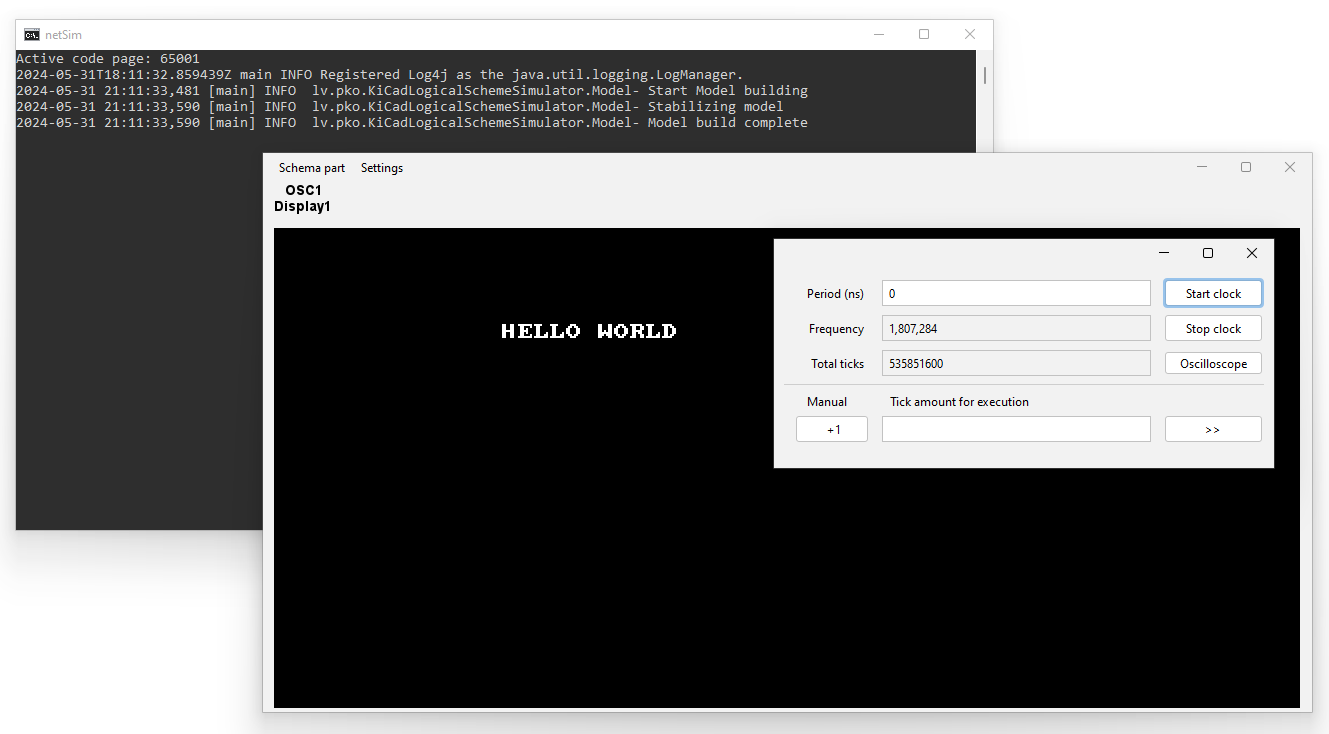
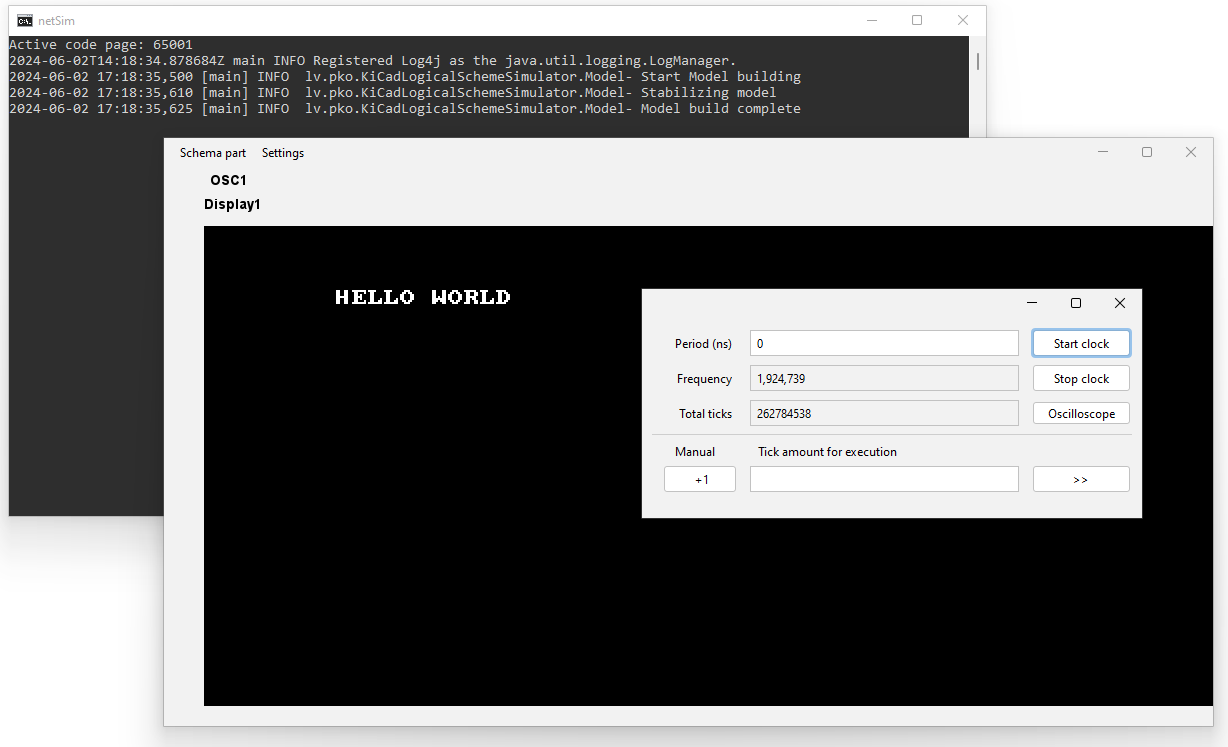
speed / actualise Readme

Changed region(s): [[0.0, 0.0, 0.9902, 0.9891]]

diff --git a/schemaParts/shifter/src/java/lv/pko/KiCadLogicalSchemeSimulator/components/shifter/Shifter.java b/schemaParts/shifter/src/java/lv/pko/KiCadLogicalSchemeSimulator/components/shifter/Shifter.java
@@ -37,6 +37,8 @@ import lv.pko.KiCadLogicalSchemeSimulator.api.pins.in.RisingEdgeInPin;
 import lv.pko.KiCadLogicalSchemeSimulator.api.pins.out.OutPin;
 import lv.pko.KiCadLogicalSchemeSimulator.api.schemaPart.SchemaPart;
 
+import java.util.stream.IntStream;
+
 public class Shifter extends SchemaPart {
     private final InPin dPins;
     private final InPin dsPins;
@@ -53,6 +55,10 @@ public class Shifter extends SchemaPart {
             throw new RuntimeException("Component " + id + " has no parameter \"size\"");
         }
         int dSize = Integer.parseInt(params.get("size"));
+        int qSize = dSize;
+        if (params.containsKey("qSize")) {
+            qSize = Integer.parseInt(params.get("qSize"));
+        }
         dPins = addInPin(new InPin("D", this, dSize) {
             @Override
             public void onChange(long newState, boolean hiImpedance) {
@@ -76,7 +82,7 @@ public class Shifter extends SchemaPart {
                 plInactive = (newState == 0) ^ plReverse;
                 if (!plInactive) {
                     latch = dPins.getState();
-                    out.setState(latch);
+                    out.setState(latch & out.mask);
                 }
             }
         });
@@ -90,7 +96,7 @@ public class Shifter extends SchemaPart {
                             if (dsPins.state > 0) {
                                 latch = latch | 1;
                             }
-                            out.setState(latch);
+                            out.setState(latch & out.mask);
                         }
                     }
                 }
@@ -104,7 +110,7 @@ public class Shifter extends SchemaPart {
                             if (dsPins.state > 0) {
                                 latch = latch | hiDsMask;
                             }
-                            out.setState(latch);
+                            out.setState(latch & out.mask);
                         }
                     }
                 }
@@ -119,7 +125,7 @@ public class Shifter extends SchemaPart {
                             if (dsPins.state > 0) {
                                 latch = latch | 1;
                             }
-                            out.setState(latch);
+                            out.setState(latch & out.mask);
                         }
                     }
                 }
@@ -133,13 +139,16 @@ public class Shifter extends SchemaPart {
                             if (dsPins.state > 0) {
                                 latch = latch | hiDsMask;
                             }
-                            out.setState(latch);
+                            out.setState(latch & out.mask);
                         }
                     }
                 }
             });
         }
-        addOutPin("Q", dSize);
+        addOutPin("Q",
+                qSize,
+                IntStream.range(0, qSize).mapToObj(String::valueOf)
+                        .map(pos -> "Q" + pos).toArray(String[]::new));
     }
 
     @Override

diff --git a/simulator/src/java/lv/pko/KiCadLogicalSchemeSimulator/api/pins/out/DirectOutPin.java b/simulator/src/java/lv/pko/KiCadLogicalSchemeSimulator/api/pins/out/DirectOutPin.java
@@ -29,43 +29,33 @@
  * ARISING IN ANY WAY OUT OF THE USE OF THIS SOFTWARE, EVEN IF ADVISED OF THE
  * POSSIBILITY OF SUCH DAMAGE.
  */
-package lv.pko.KiCadLogicalSchemeSimulator.components.repeater;
-import lv.pko.KiCadLogicalSchemeSimulator.api.pins.in.FloatingPinException;
-import lv.pko.KiCadLogicalSchemeSimulator.api.pins.in.InPin;
-import lv.pko.KiCadLogicalSchemeSimulator.api.pins.out.OutPin;
-import lv.pko.KiCadLogicalSchemeSimulator.api.schemaPart.SchemaPart;
+package lv.pko.KiCadLogicalSchemeSimulator.api.pins.out;
+import lv.pko.KiCadLogicalSchemeSimulator.api.pins.Manipulable;
 
-public class Repeater extends SchemaPart {
-    private OutPin out;
-
-    public Repeater(String id, String sParam) {
-        super(id, sParam);
-        if (reverse) {
-            addInPin(new InPin("IN", this) {
-                @Override
-                public void onChange(long newState, boolean hiImpedance) {
-                    if (hiImpedance) {
-                        throw new FloatingPinException(this);
-                    }
-                    out.setState(~newState & out.mask);
-                }
-            });
-        } else {
-            addInPin(new InPin("IN", this) {
-                @Override
-                public void onChange(long newState, boolean hiImpedance) {
-                    if (hiImpedance) {
-                        throw new FloatingPinException(this);
-                    }
-                    out.setState(newState);
-                }
-            });
-        }
-        addOutPin("OUT", 1);
+public class DirectOutPin extends OutPin implements Manipulable {
+    public DirectOutPin(OutPin oldPin) {
+        super(oldPin.id, oldPin.parent, oldPin.size);
+        aliases = oldPin.aliases;
+        mask = oldPin.mask;
+        dest = oldPin.dest;
+        state = oldPin.state;
     }
 
-    @Override
-    public void initOuts() {
-        out = getOutPin("OUT");
+    public void setState(long newState) {
+        if (newState != dest.state) {
+            dest.state = newState;
+            dest.onChange(dest.state, false);
+        }
+    }
+
+    public void reSendState() {
+        if (dest != null) {
+            dest.state = state;
+            dest.onChange(dest.state, false);
+        }
+    }
+
+    public boolean noDest() {
+        return dest == null;
     }
 }

diff --git a/simulator/src/java/lv/pko/KiCadLogicalSchemeSimulator/api/schemaPart/SchemaPart.java b/simulator/src/java/lv/pko/KiCadLogicalSchemeSimulator/api/schemaPart/SchemaPart.java
@@ -45,8 +45,8 @@ public abstract class SchemaPart {
     public final Map<String, OutPin> outMap = new LinkedHashMap<>();
     public final Map<String, InPin> inMap = new LinkedHashMap<>();
     protected final Map<String, String> params = new HashMap<>();
-    protected final long hiState;
-    protected final long loState;
+    protected long hiState;
+    protected long loState;
     protected final boolean reverse;
     private final Map<String, InPin> inAliasMap = new HashMap<>();
     private final Map<String, OutPin> outAliasMap = new HashMap<>();

diff --git a/simulator/src/java/lv/pko/KiCadLogicalSchemeSimulator/Model.java b/simulator/src/java/lv/pko/KiCadLogicalSchemeSimulator/Model.java
@@ -245,6 +245,8 @@ public class Model {
                         replaceOut(outPin, new TriStateOutPins(oldPin));
                     } else if (outPin instanceof OutGroupedPins oldPin && oldPin.groups.length == 1) {
                         replaceOut(outPin, new OutPins(oldPin));
+                    } else if (outPin.getClass() == OutPin.class && outPin.dest.mask == outPin.mask) {
+                        replaceOut(outPin, new DirectOutPin(outPin));
                     }
                 });
     }

diff --git a/schemaParts/dcTrigger/src/java/lv/pko/KiCadLogicalSchemeSimulator/components/dcTrigger/DcTrigger.java b/schemaParts/dcTrigger/src/java/lv/pko/KiCadLogicalSchemeSimulator/components/dcTrigger/DcTrigger.java
@@ -92,12 +92,15 @@ public class DcTrigger extends SchemaPart {
         qOut.state = 0;
         iqOut = getOutPin("~{Q}");
         iqOut.state = 1;
+        hiState = hiState & qOut.mask;
+        loState = loState & qOut.mask;
     }
 
     private void store() {
         if (clockEnabled) {
             long dState = dPin.state;
             if (dState > 0) {
+                //ToDo why no hi/loState?
                 qOut.setState(1);
                 iqOut.setState(0);
             } else {

diff --git a/simulator/src/java/lv/pko/KiCadLogicalSchemeSimulator/api/pins/Pin.java b/simulator/src/java/lv/pko/KiCadLogicalSchemeSimulator/api/pins/Pin.java
@@ -61,7 +61,7 @@ public abstract class Pin {
         } else if (names.length != size) {
             throw new RuntimeException("Pin definition Error, Names amount not equal size, pin" + getName());
         } else if (size == 1) {
-            aliases = Collections.singletonMap(id, (byte) 1);
+            aliases = Collections.singletonMap(id, (byte) 0);
         } else {
             for (byte i = 0; i < names.length; i++) {
                 aliases.put(names[i], i);

diff --git a/simulator/src/java/lv/pko/KiCadLogicalSchemeSimulator/api/pins/out/OutPin.java b/simulator/src/java/lv/pko/KiCadLogicalSchemeSimulator/api/pins/out/OutPin.java
@@ -50,9 +50,9 @@ public class OutPin extends Pin implements Manipulable {
     }
 
     public void setState(long newState) {
-        if (newState != state) {
-            state = newState;
-            dest.state = newState & dest.mask;
+        state = newState & dest.mask;
+        if (dest.state != state) {
+            dest.state = state;
             dest.onChange(dest.state, false);
         }
     }

diff --git a/schemaParts/and/src/java/lv/pko/KiCadLogicalSchemeSimulator/components/AND/AndGate.java b/schemaParts/and/src/java/lv/pko/KiCadLogicalSchemeSimulator/components/AND/AndGate.java
@@ -65,5 +65,7 @@ public class AndGate extends SchemaPart {
         out = getOutPin("OUT");
         out.state = loState;
         out.useBitPresentation = true;
+        hiState = hiState & out.mask;
+        loState = loState & out.mask;
     }
 }

diff --git a/schemaParts/xor/src/java/lv/pko/KiCadLogicalSchemeSimulator/components/XOR/XorGate.java b/schemaParts/xor/src/java/lv/pko/KiCadLogicalSchemeSimulator/components/XOR/XorGate.java
@@ -70,5 +70,7 @@ public class XorGate extends SchemaPart {
         out = getOutPin("OUT");
         out.state = hiState;
         out.useBitPresentation = true;
+        hiState = hiState & out.mask;
+        loState = loState & out.mask;
     }
 }

diff --git a/schemaParts/or/src/java/lv/pko/KiCadLogicalSchemeSimulator/components/OR/OrGate.java b/schemaParts/or/src/java/lv/pko/KiCadLogicalSchemeSimulator/components/OR/OrGate.java
@@ -65,5 +65,7 @@ public class OrGate extends SchemaPart {
         out = getOutPin("OUT");
         out.state = loState;
         out.useBitPresentation = true;
+        hiState = hiState & out.mask;
+        loState = loState & out.mask;
     }
 }

diff --git a/schemaParts/jkTrigger/src/java/lv/pko/KiCadLogicalSchemeSimulator/components/jkTrigger/JkTrigger.java b/schemaParts/jkTrigger/src/java/lv/pko/KiCadLogicalSchemeSimulator/components/jkTrigger/JkTrigger.java
@@ -124,5 +124,7 @@ public class JkTrigger extends SchemaPart {
         qOut.state = 0;
         iqOut = getOutPin("~{Q}");
         iqOut.state = 1;
+        hiState = hiState & qOut.mask;
+        loState = loState & qOut.mask;
     }
 }

diff --git a/stuff/examples/counters/README.md b/stuff/examples/counters/README.md
@@ -2,11 +2,11 @@
 
 **Sequential counters with LED, ideal for speed test.**
 
-On an Intel i-3770s, this schema achieved approximately 110 MHz.
+On an Intel i-3770s, this schema achieved approximately 200 MHz.
 
 ![img.png](img/result.png)
 
-For comparison, [Digital](https://github.com/hneemann/Digital) on the same hardware achieved approximately 20 times less speed. However, it's important to note
+For comparison, [Digital](https://github.com/hneemann/Digital) on the same hardware achieved approximately 40 times less speed. However, it's important to note
 that [Digital](https://github.com/hneemann/Digital) and this project have different schema building principles, which may affect simulation speed. Additionally, this
 project provides real-time feedback on achieved frequency, while [Digital](https://github.com/hneemann/Digital) does not offer this feature.
 
